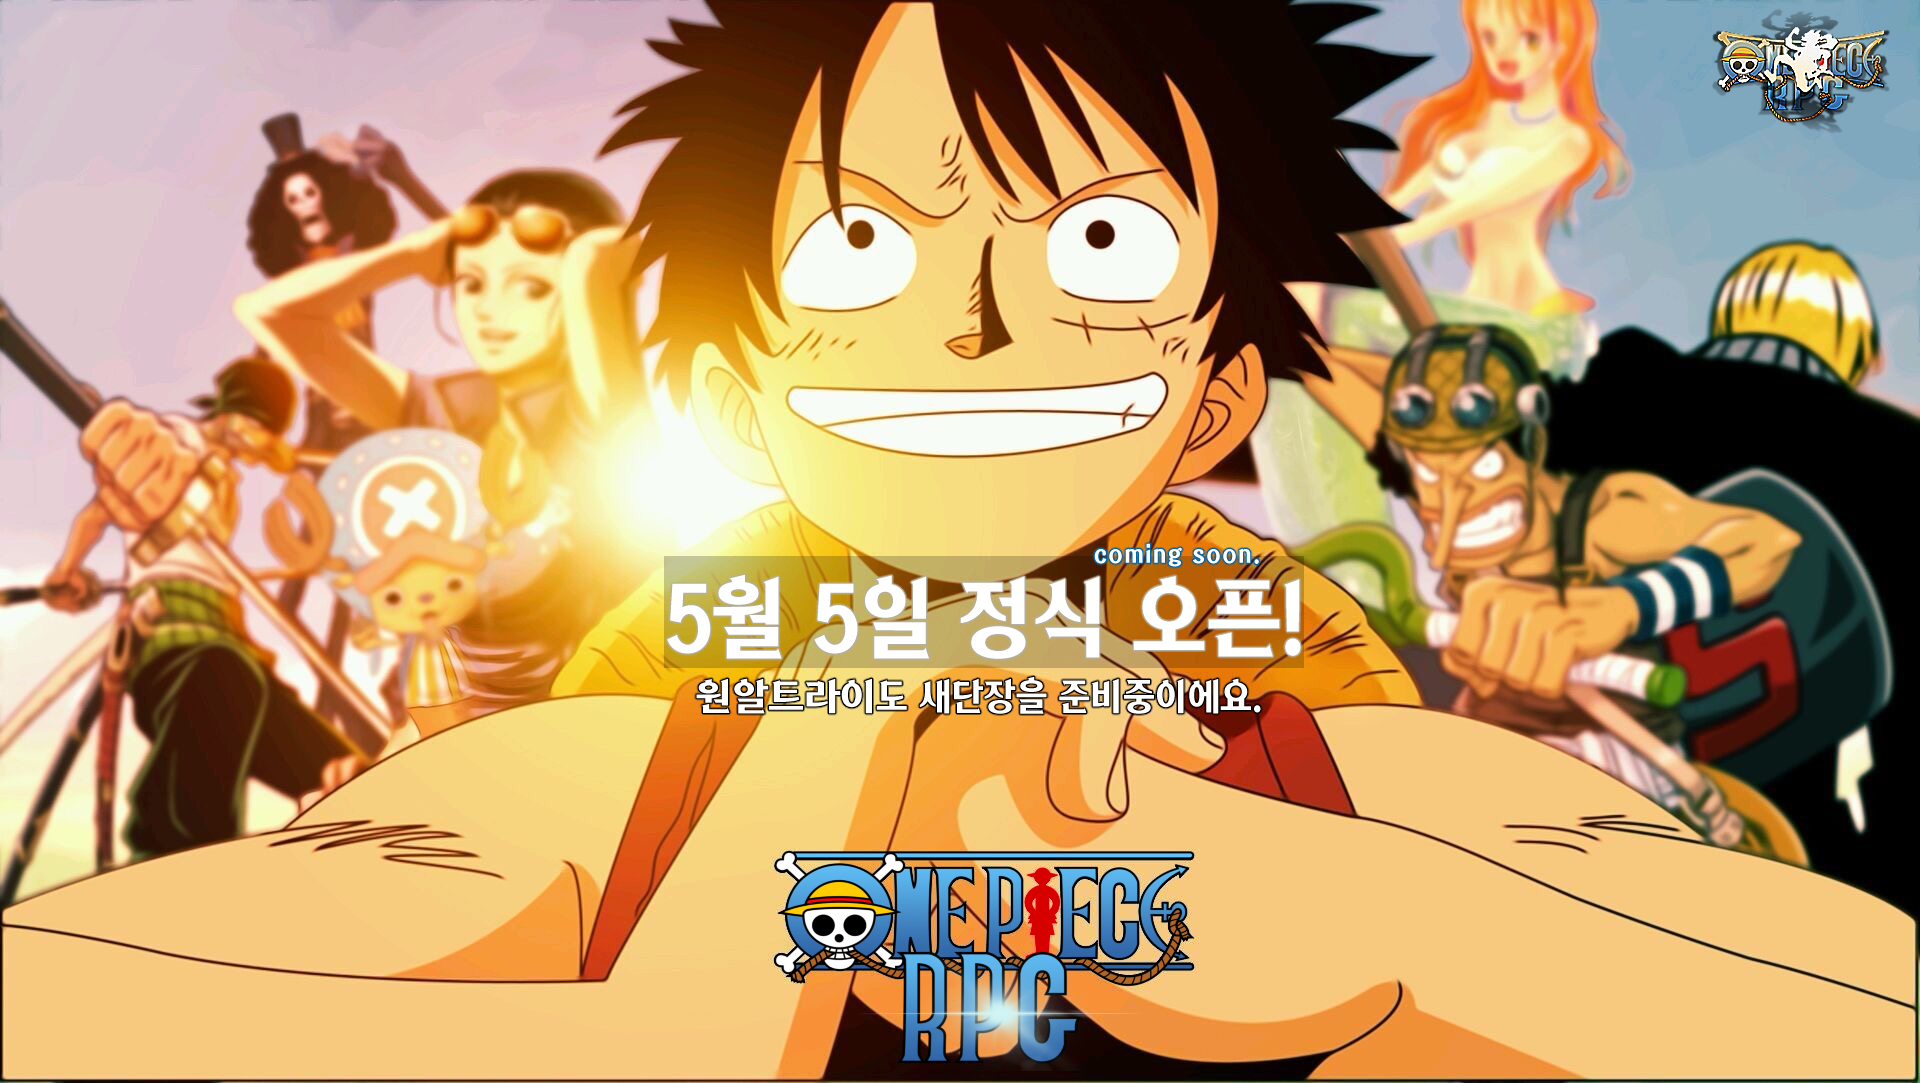
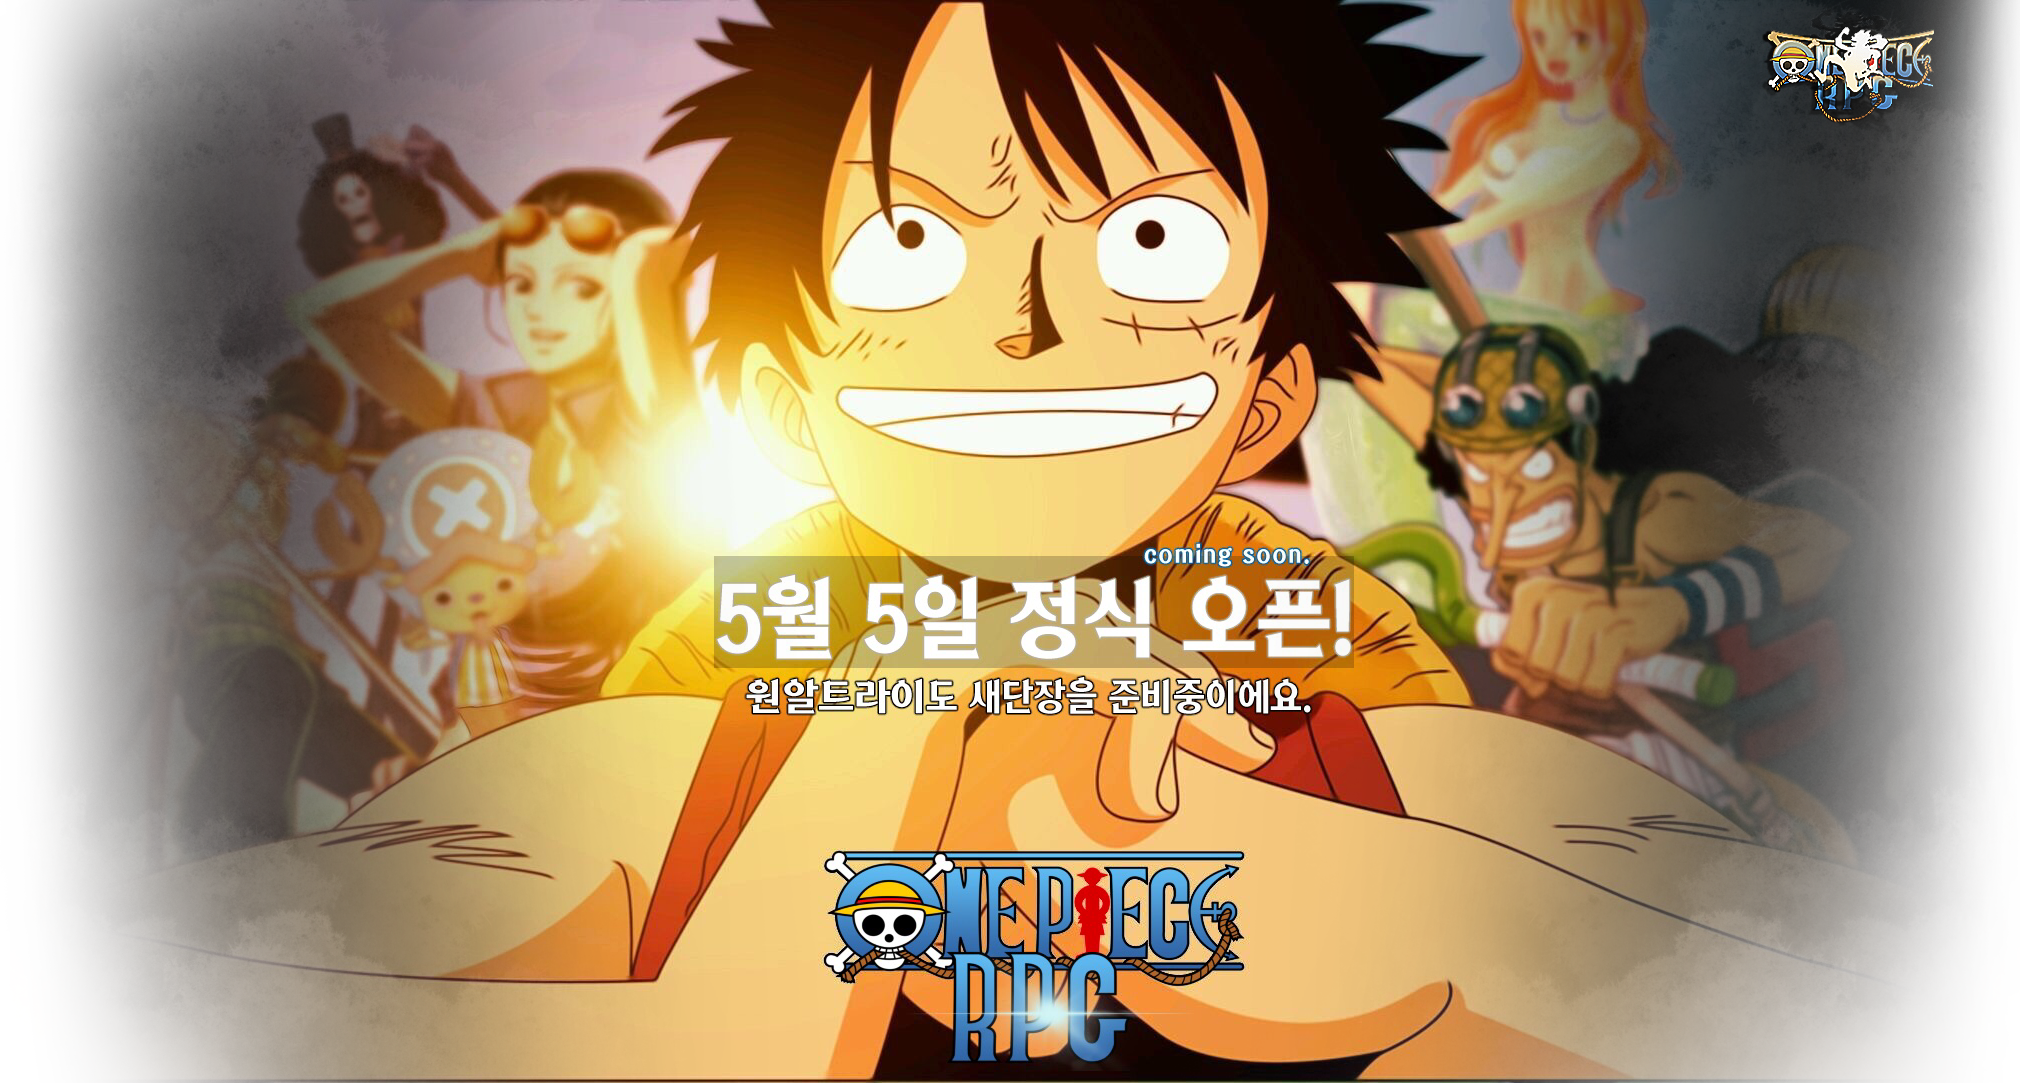
fix: 이미지 상 하단 로고 잘리지 않게 변경 - 사이드 그라데이션 이미지로 교체 및 배경 컬러 지정

diff --git a/src/assets/style/common.scss b/src/assets/style/common.scss
@@ -4,7 +4,7 @@
 $font-family: 'Pretendard Variable', sans-serif;
 
 body {
-  background-color: var(--color-gray-85);
+  background-color: #000;
   font-size: $font-size-M-pc;
   line-height: 1.5;
   color: var(--color-black);

diff --git a/src/pages/index.vue b/src/pages/index.vue
@@ -58,8 +58,7 @@ export default {
 @import '@/assets/style/pages/index.scss';
 img {
   display: block;
-  width: 100vw;
+  margin: 0 auto;
   height: calc(100vh - $header-site-menu-height);
-  object-fit: cover;
 }
 </style>
